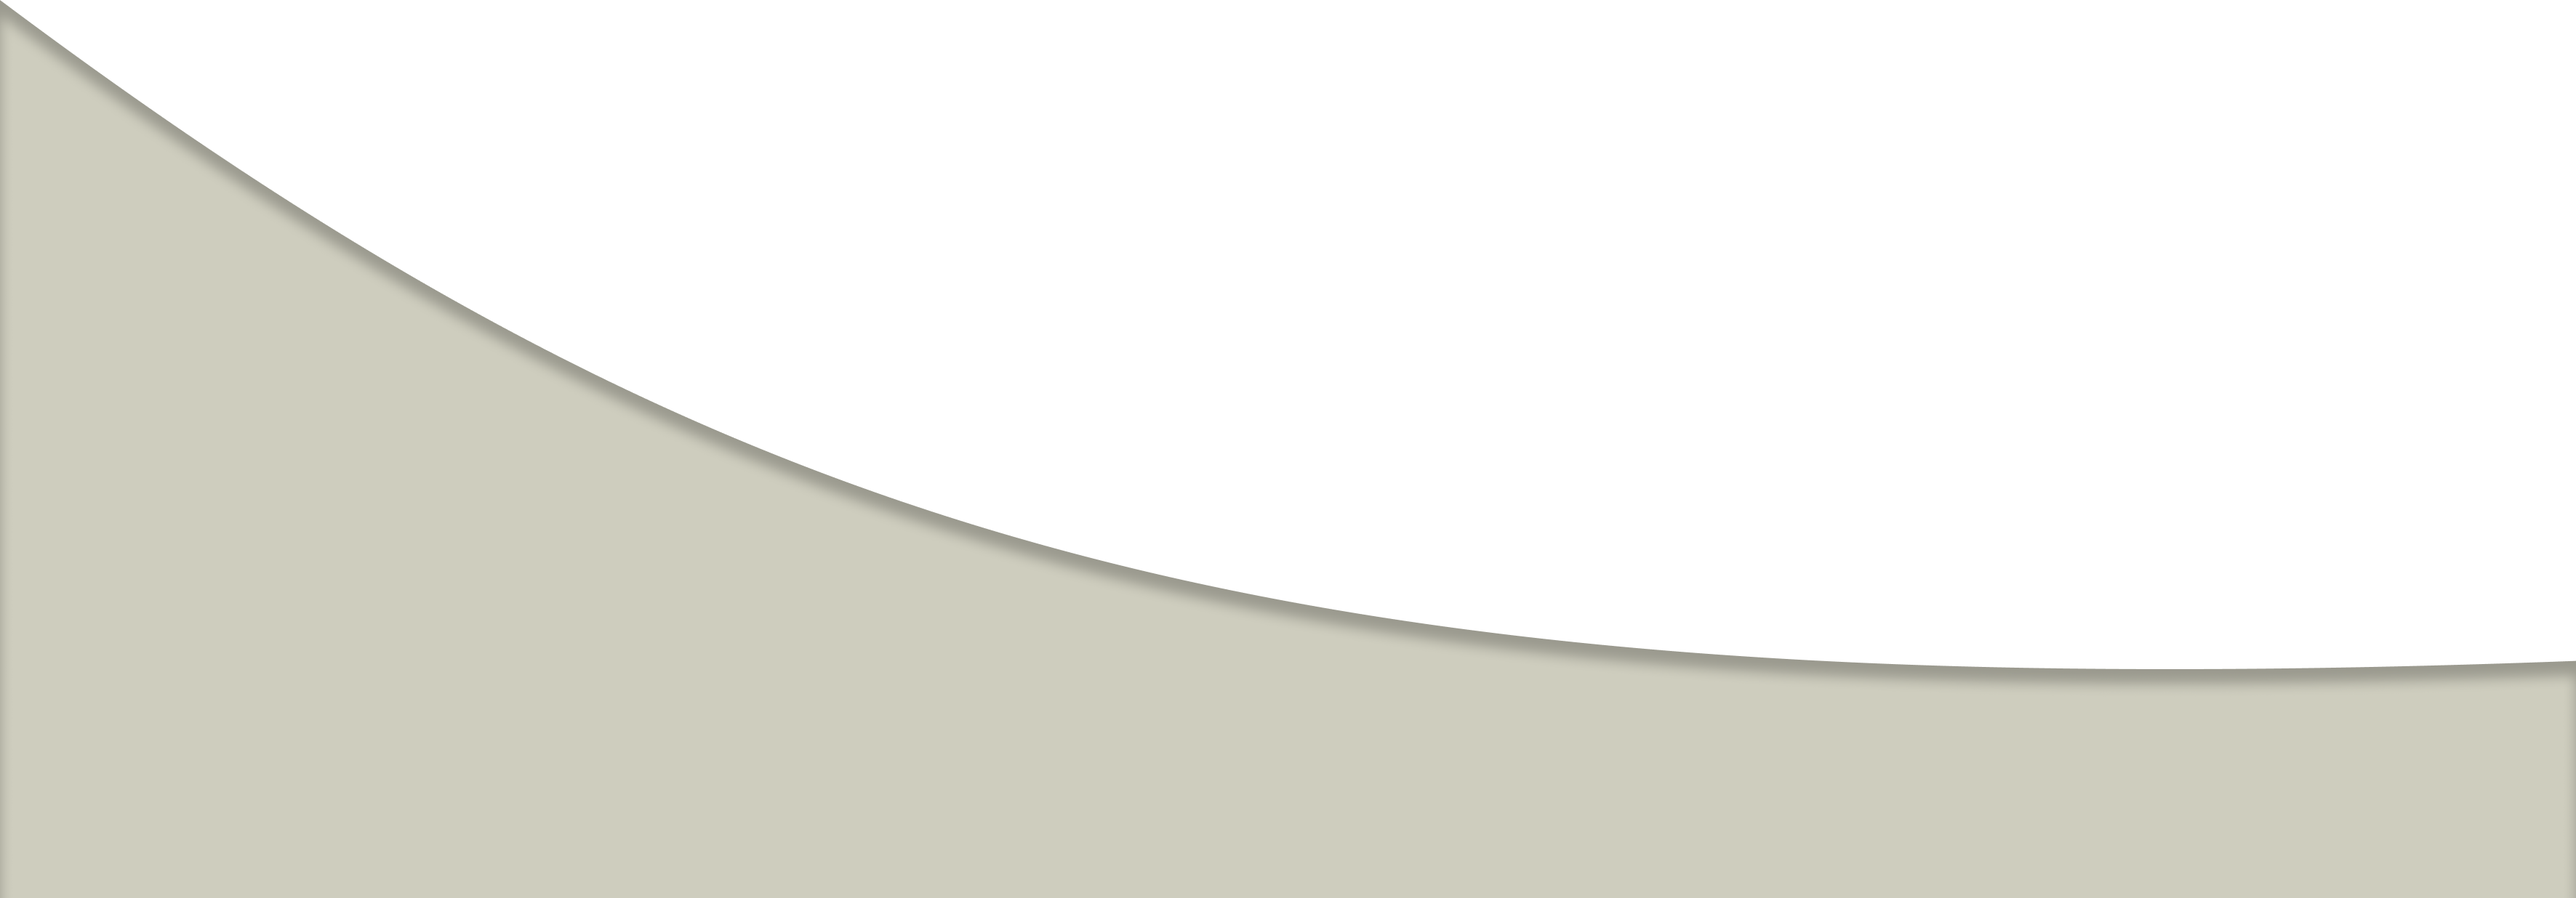
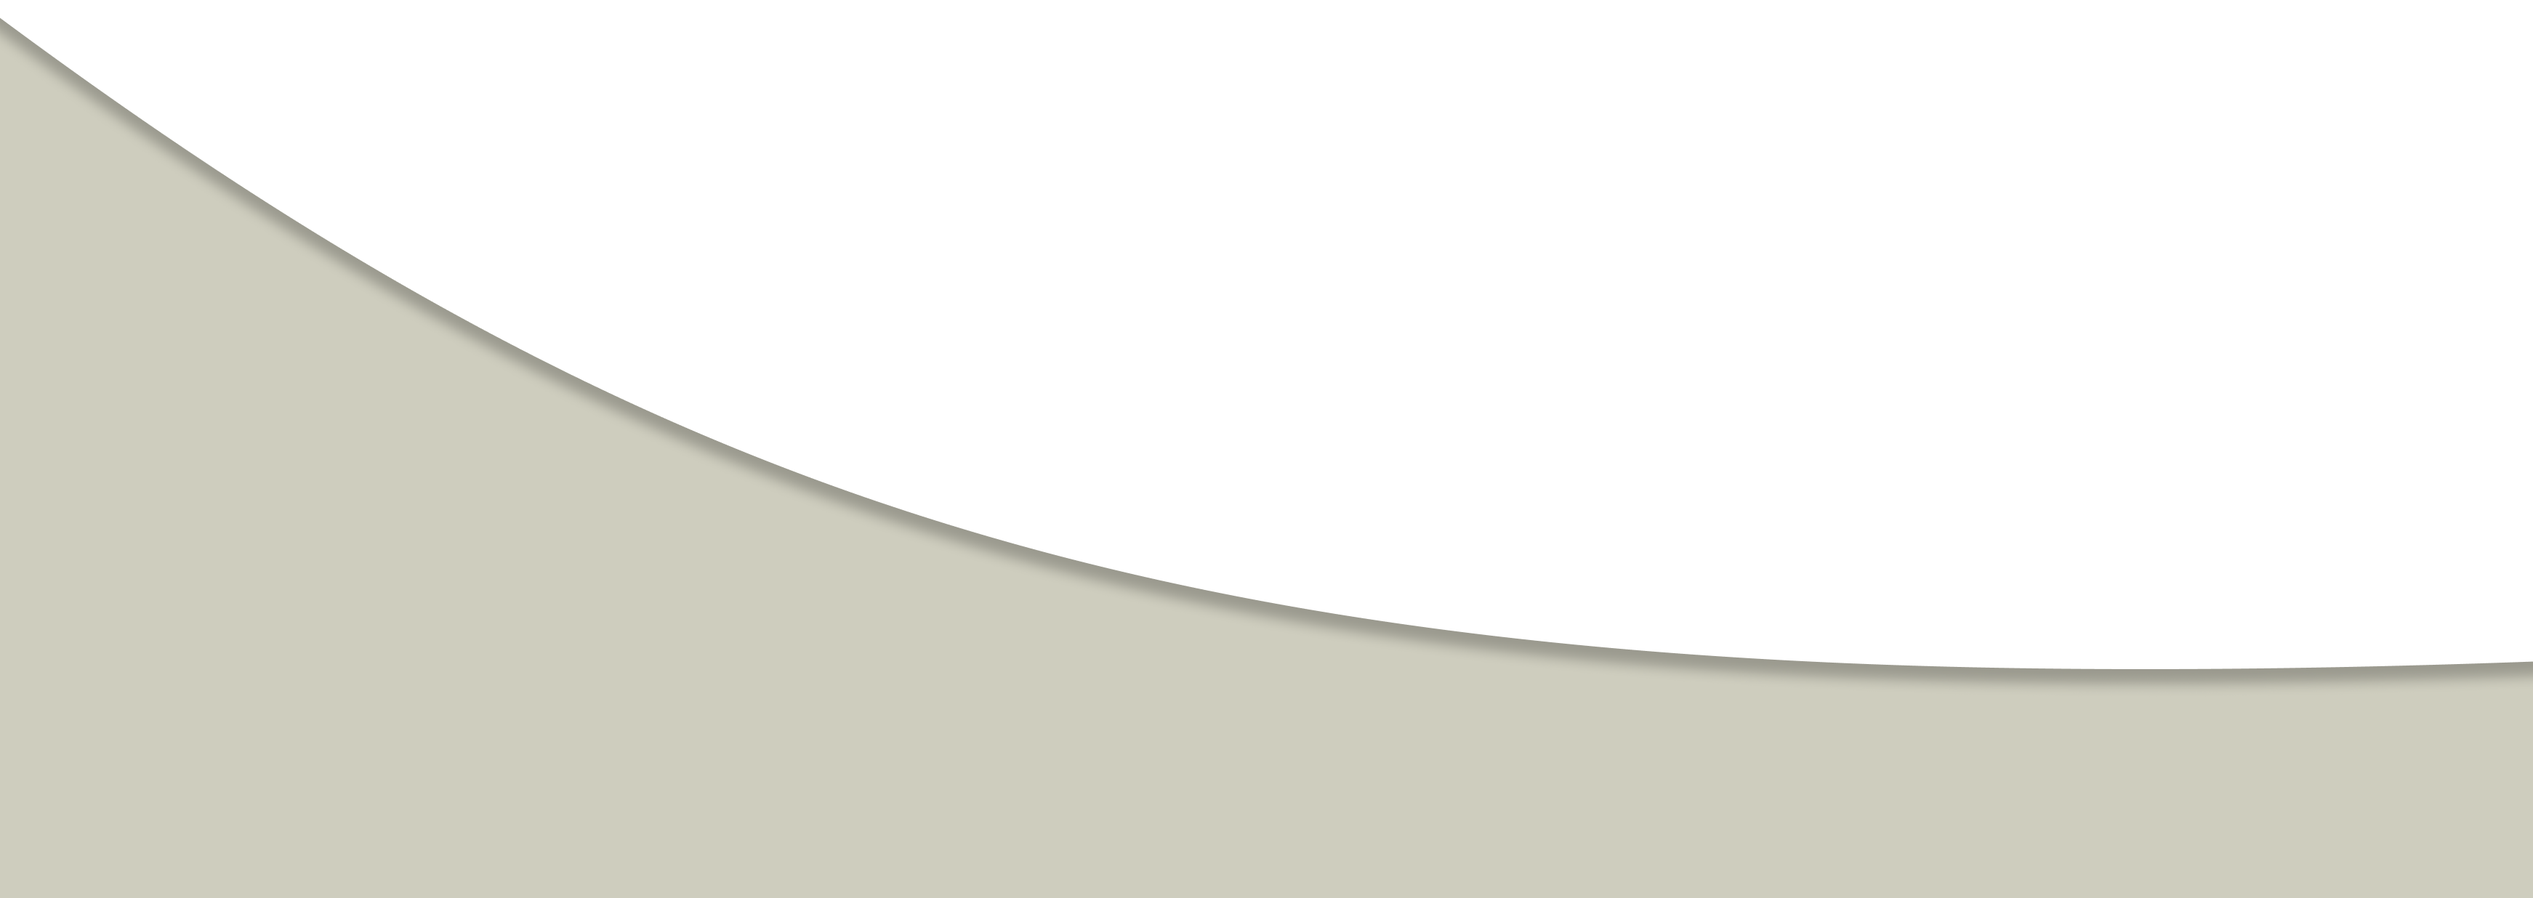
rettet fejl i forhold til negativ margin i index.php. gjort responsivt til tablet

diff --git a/css/styles.scss b/css/styles.scss
@@ -39,7 +39,27 @@ $theme-colors: map-merge($theme-colors, $custom-colors);
 
 .allura{ font-family: 'Allura', serif; }
 
+.header-image-frontpage{
+	margin-top: -60px;
+}
 
+.green-wave-front-page{
+	margin-top: -125px;
+}
+
+.velkomst-frontpage{
+	margin-top: -20px;
+}
+
+.green-wavywave-frontpage{
+
+}
+
+
+
+.header-text-allura{
+	font-size: 18px;
+}
 
 .header-text-inter{
 	font-size: 12px;
@@ -56,4 +76,54 @@ $theme-colors: map-merge($theme-colors, $custom-colors);
 
 .front-page-shape-text{
 	font-size: 14px;
+}
+
+
+@media only screen and (min-width: 768px){
+	.header-image-frontpage{
+		margin-top: -115px;
+	}
+
+	.green-wave-front-page{
+		margin-top: -210px;
+	}
+
+	.velkomst-frontpage{
+		margin-top: -25px;
+	}
+
+	.green-wavywave-frontpage{
+		margin-top: -5px;
+	}
+
+	.header-text-allura{
+		font-size: 40px;
+	}
+
+	.header-text-cormorant{
+		font-size: 50px;
+	}
+
+	.header-text-inter{
+		font-size: 20px;
+		font-style: italic;
+	}
+
+	.header-button-text{
+		font-size: 18px;
+	}
+
+
+
+	.front-page-shape-header{
+		font-size: 25px;
+	}
+
+	.front-page-shape-text{
+		font-size: 19px;
+	}
+}
+
+@media only screen and (min-width: 1024px){
+
 }

diff --git a/index.php b/index.php
@@ -29,33 +29,29 @@ require "settings/init.php";
     <img src="waves-phone/navwave.png" class="waves position-relative w-100" alt="">
 </div>
 
-<div class="container-fluid p-0 d-md-none">
-    <img src="images/header-image.jpg" alt="header-image" class="img-fluid" style="margin-top: -70px">
+<div class="container-fluid p-0 ">
+    <img src="images/header-image.jpg" alt="header-image" class="img-fluid header-image-frontpage d-md-none">
+    <img src="images/header-image-tablet.jpg" alt="header-image" class="img-fluid header-image-frontpage d-none d-md-block">
 </div>
 
-<div class="container-fluid p-0 d-none d-md-block">
-    <img src="images/header-image-tablet.jpg" alt="header-image" class="img-fluid" style="margin-top: -115px">
+
+
+<div aria-hidden="true" class="">
+    <img src="waves-phone/green-wave.png" class="green-wave-front-page position-relative w-100" alt="">
 </div>
 
-<div aria-hidden="true" class="d-md-none">
-    <img src="waves-phone/green-wave.png" class="waves position-relative w-100" alt="" style="margin-top: -125px">
-</div>
 
-<div aria-hidden="true" class="d-none d-md-block">
-    <img src="waves-phone/green-wave.png" class="waves position-relative w-100" alt="" style="margin-top: -200px">
-</div>
-
-<div class="container-fluid bg-sage-green ps-4" style="margin-top: -20px">
+<div class="container-fluid bg-sage-green ps-4 ps-md-5 pb-md-2 velkomst-frontpage" >
 
     <div class="row">
         <div class="col-12 mt-3">
-            <div class="allura fs-5">Velkommen til Vedelsbo</div>
+            <div class="allura  header-text-allura">Velkommen til Vedelsbo</div>
         </div>
         <div class="col-12">
-            <h1 class="cormorant pe-5 fw-bold">Hjælp til et godt og trygt liv</h1>
+            <h1 class="cormorant pe-5 fw-bold header-text-cormorant">Hjælp til et godt og trygt liv</h1>
         </div>
         <div class="col-12">
-            <div class="inter header-text-inter pe-4 ">Et socialpsykiatrisk botilbud med en hjemlig atmosfære for voksne med en sindslidelse. </div>
+            <div class="inter header-text-inter pe-4 pe-md-5 me-md-5">Et socialpsykiatrisk botilbud med en hjemlig atmosfære for voksne med en sindslidelse. </div>
         </div>
 
         <div class="mt-3">
@@ -66,19 +62,25 @@ require "settings/init.php";
     </div>
 </div>
 
-<div aria-hidden="true">
+<div aria-hidden="true" class=" green-wavywave-frontpage">
     <img src="waves-phone/green-wavywave.png" class="waves img-fluid  p-0 m-0" alt="" >
 </div>
 
-<div aria-hidden="true" class="text-end" style="margin-top: -40px">
-    <img src="images/Dekoration.png" class="  pe-4 m-0" alt="" style="width: 90px">
+
+
+<div aria-hidden="true" class="text-end d-md-none decoration-frontpage" style="margin-top: -40px">
+    <img src="images/Dekoration.png" class="decoration-frontpage-image  pe-4 m-0" alt="" style="width: 90px">
+</div>
+
+<div aria-hidden="true" class="text-end d-none d-md-block" style="margin-top: -120px">
+    <img src="images/Dekoration.png" class="  pe-4 m-0" alt="" style="width: 150px">
 </div>
 
 
-<div class="container mt-3 d-flex justify-content-center align-items-center">
+<div class="container mt-3 mt-md-5 d-flex justify-content-center align-items-center">
     <div class="row justify-content-center">
 
-        <div class="col-12 col-md-8 col-lg-6 text-center mt-3">
+        <div class="col-12 col-md-6 col-lg-6 text-center mt-3">
 
             <img src="shapes/light-green-shape-heart.png" alt="light-green-shape" class="mb-3" style="width: 100px">
 
@@ -92,7 +94,7 @@ require "settings/init.php";
 
         </div>
 
-        <div class="col-12 col-md-8 col-lg-6 text-center mt-3">
+        <div class="col-12 col-md-6 col-lg-6 text-center mt-3">
 
             <img src="shapes/dark-brown-shape-people.png" alt="light-green-shape" class="mb-3" style="width: 100px">
 
@@ -106,7 +108,7 @@ require "settings/init.php";
 
         </div>
 
-        <div class="col-12 col-md-8 col-lg-6 text-center mt-3">
+        <div class="col-12 col-md-6 col-lg-6 text-center mt-3">
 
             <img src="shapes/sage-green-shape-hand.png" alt="light-green-shape" class="mb-3" style="width: 100px">
 
@@ -120,7 +122,7 @@ require "settings/init.php";
 
         </div>
 
-        <div class="col-12 col-md-8 col-lg-6 text-center mt-3">
+        <div class="col-12 col-md-6 col-lg-6 text-center mt-3">
 
             <img src="shapes/light-brown-shape-house.png" alt="light-green-shape" class="mb-3" style="width: 100px">
 
